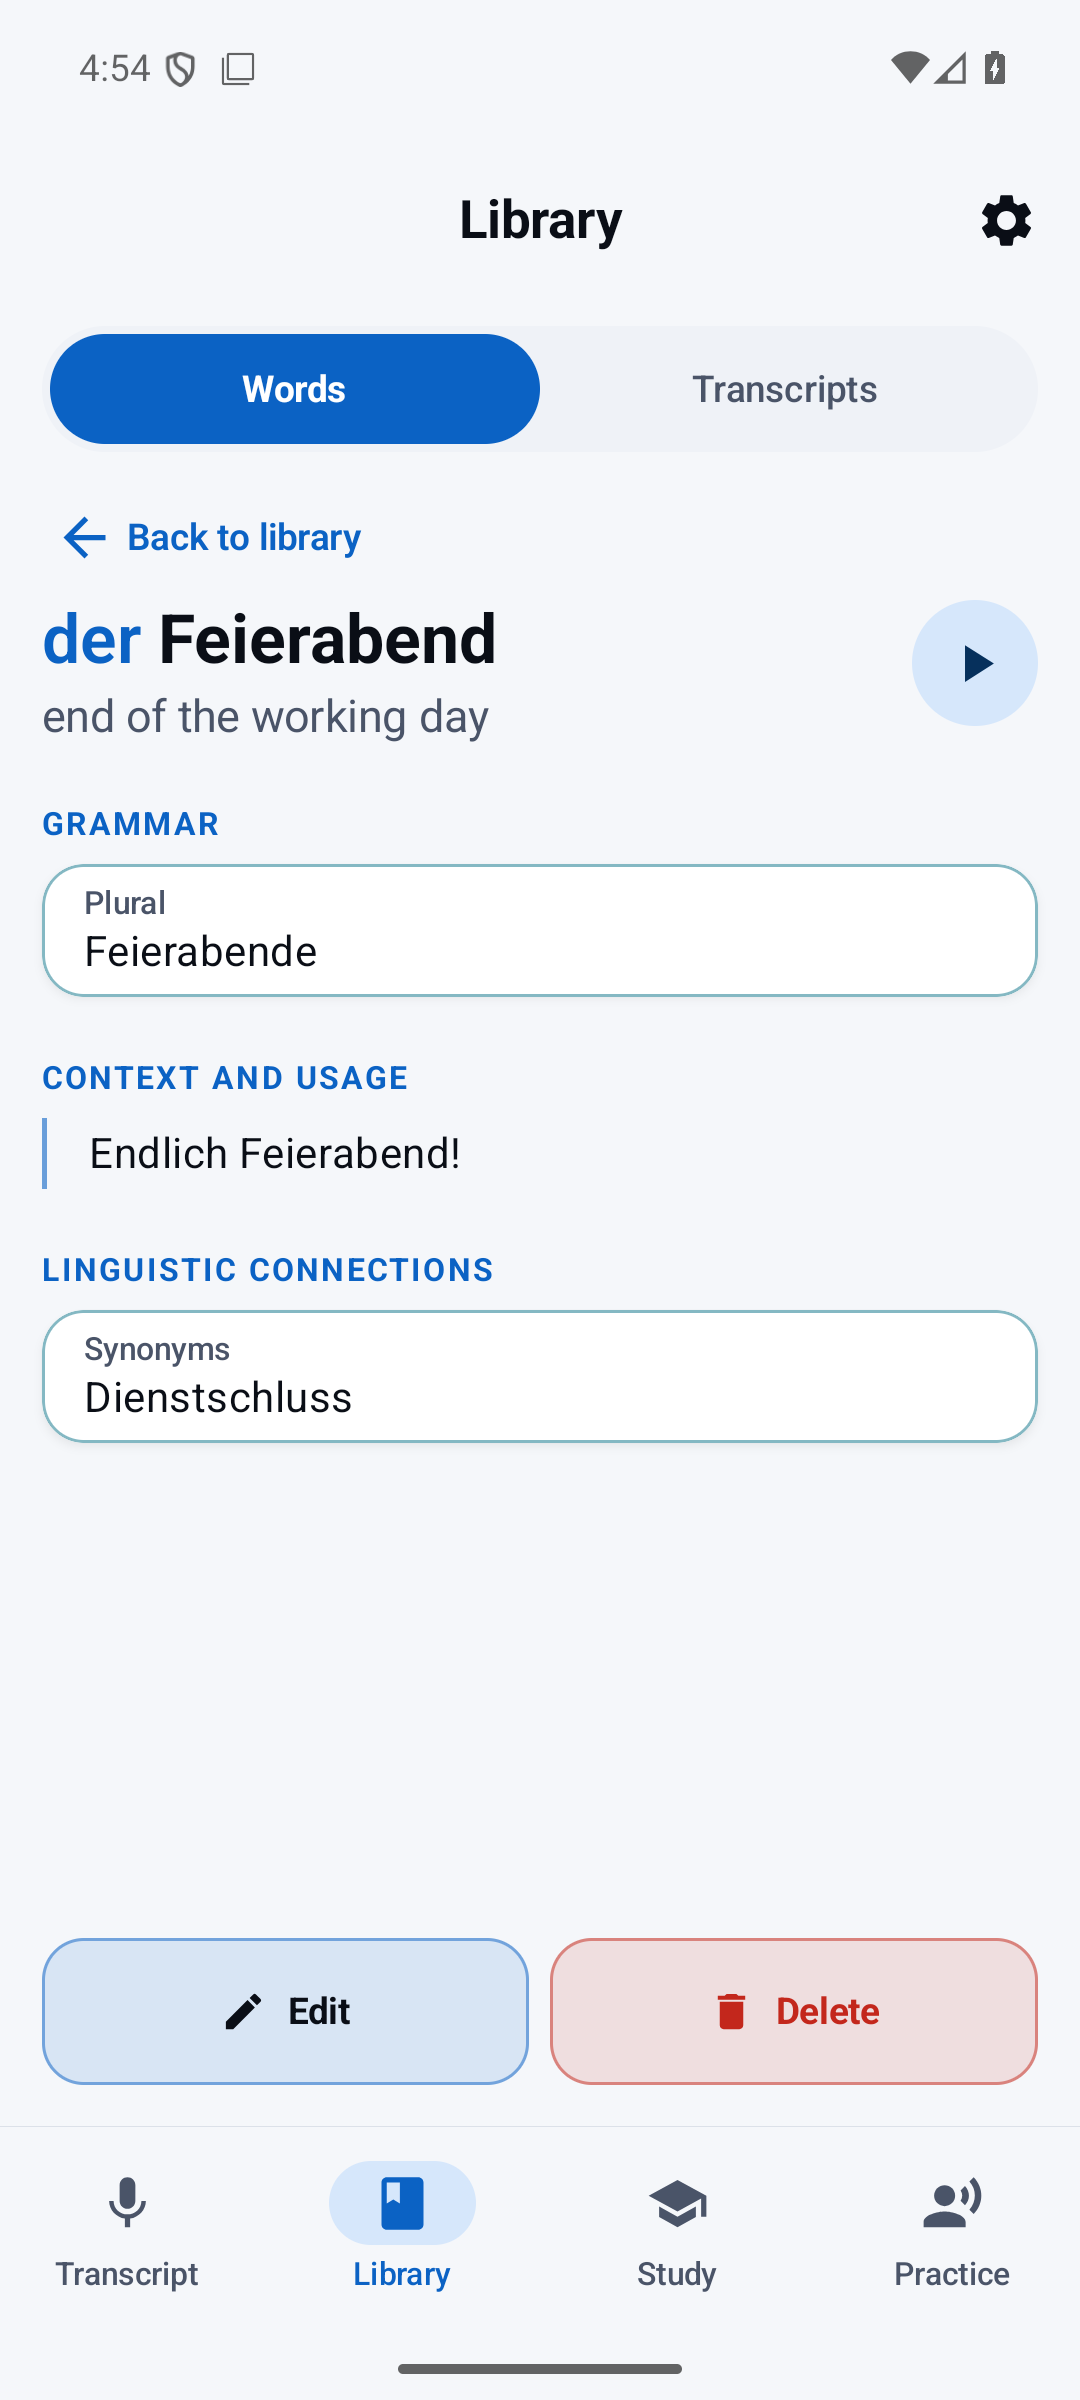
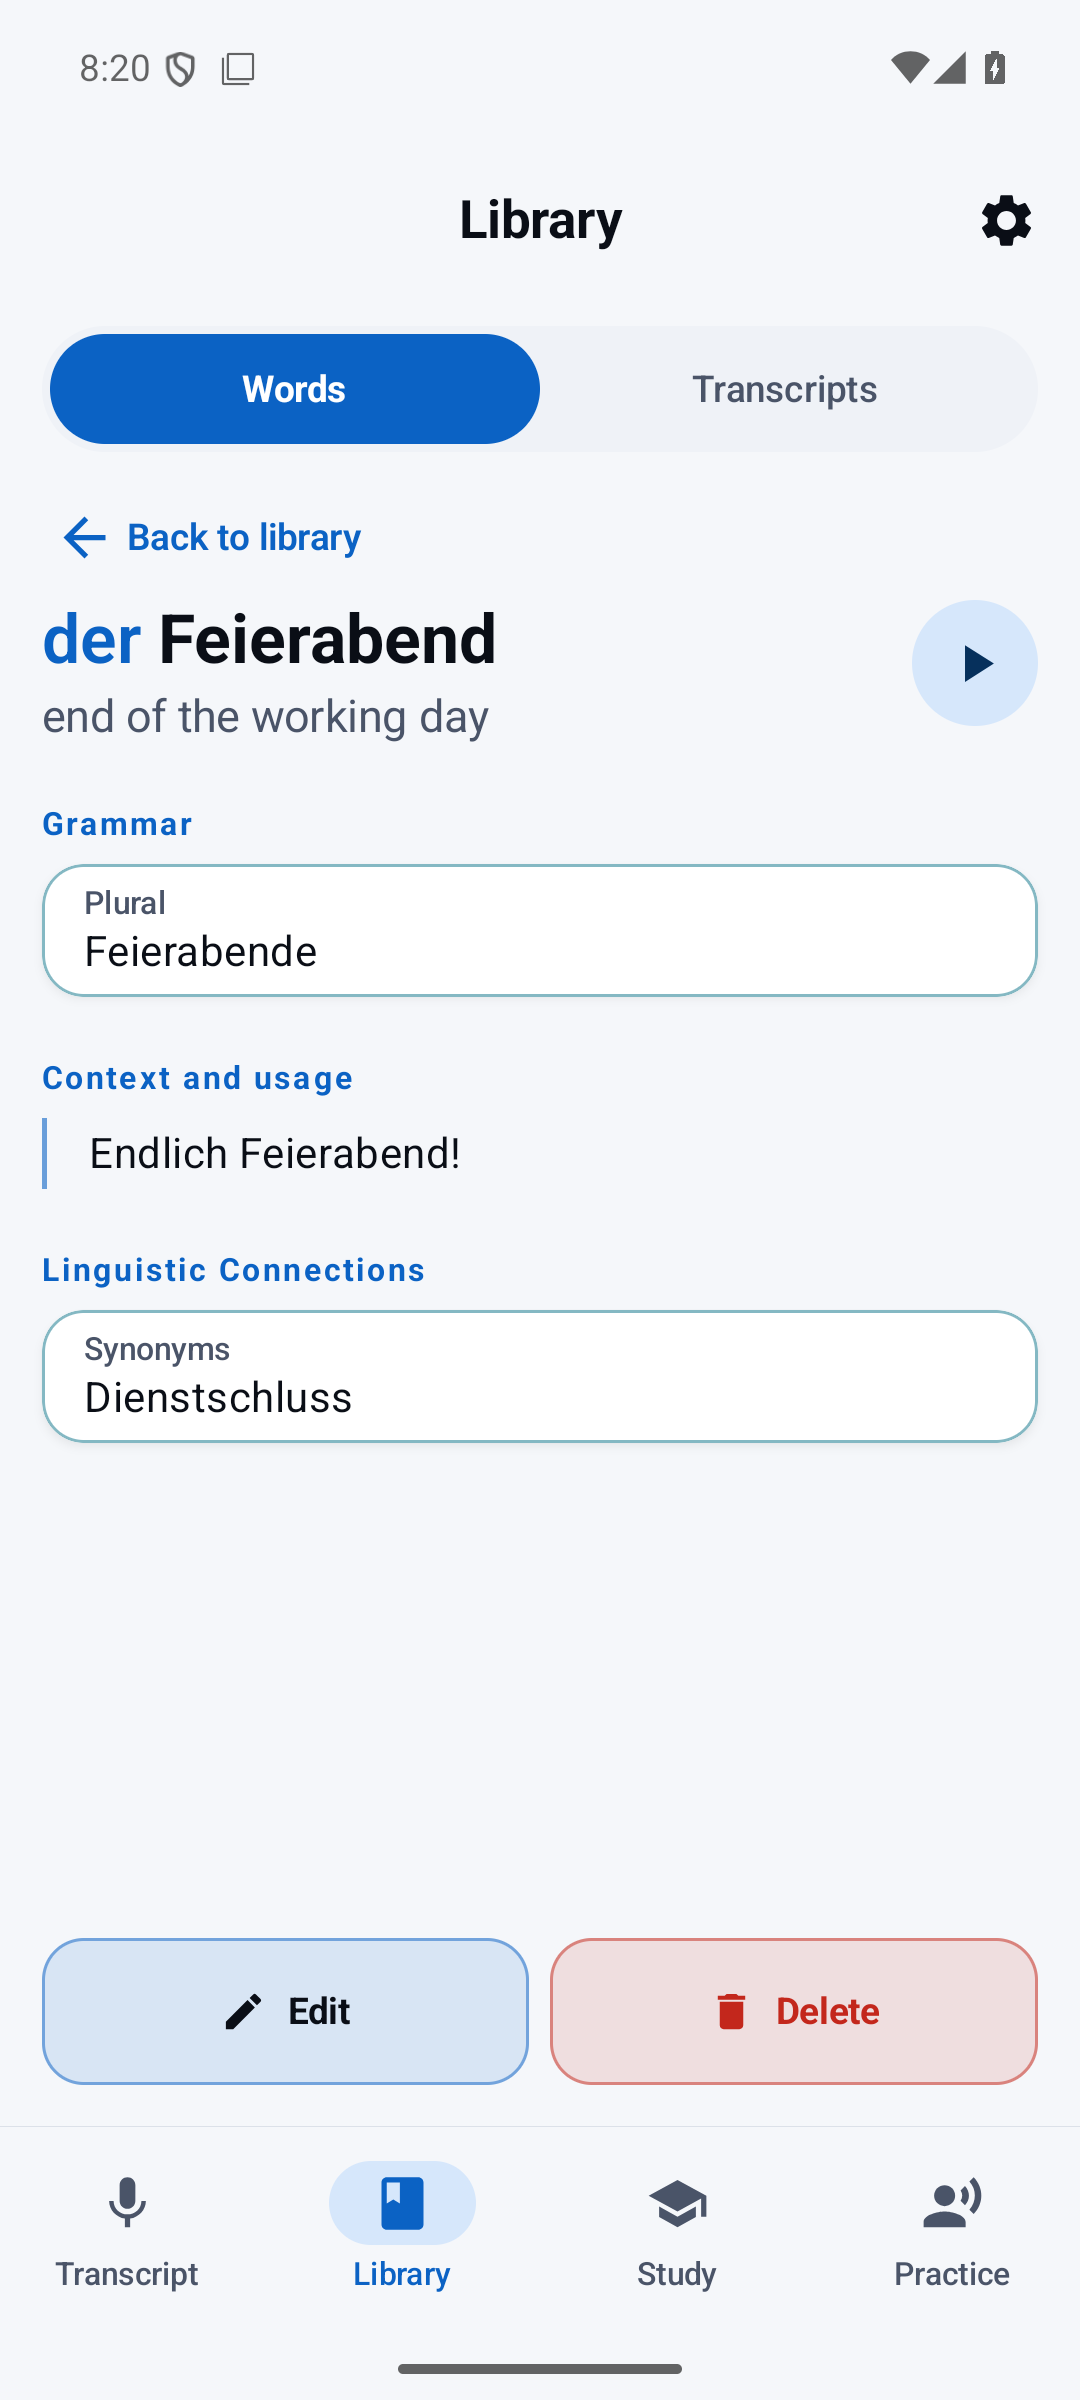
fix(android): show section labels as written instead of uppercasing them
The SectionLabel helpers rendered text.uppercase(), so the exact resource
text no longer appeared on screen. OpenWordFromOutsideTest waits for
detail_linguistic_connections and timed out on the API 31 CI suite. Uppercasing
in Kotlin also changes what TalkBack reads; the web gets the look from CSS
text-transform, which leaves the accessible text alone. Colour and letter
spacing stay.

Retakes the five screenshots that show these labels.

diff --git a/app/src/main/java/com/aus/deutschflow/ui/screens/DashboardScreen.kt b/app/src/main/java/com/aus/deutschflow/ui/screens/DashboardScreen.kt
@@ -92,11 +92,11 @@ fun DashboardScreen(
     }
 }
 
-/** The dashboard's one section label: small, uppercase, primary. */
+/** The dashboard's one section label: small, tracked, primary. Shown as written, so TalkBack and tests read the resource text. */
 @Composable
 private fun SectionLabel(text: String, modifier: Modifier = Modifier) {
     Text(
-        text = text.uppercase(),
+        text = text,
         style = MaterialTheme.typography.labelSmall,
         fontWeight = FontWeight.Bold,
         color = MaterialTheme.colorScheme.primary,

diff --git a/app/src/main/java/com/aus/deutschflow/ui/screens/VocabularyDetailScreen.kt b/app/src/main/java/com/aus/deutschflow/ui/screens/VocabularyDetailScreen.kt
@@ -231,7 +231,7 @@ fun VocabularyDetailScreen(
 private fun SectionLabel(text: String) {
     Spacer(modifier = Modifier.height(Spacing.lg))
     Text(
-        text = text.uppercase(),
+        text = text,
         style = MaterialTheme.typography.labelSmall,
         fontWeight = FontWeight.Bold,
         color = MaterialTheme.colorScheme.primary,
